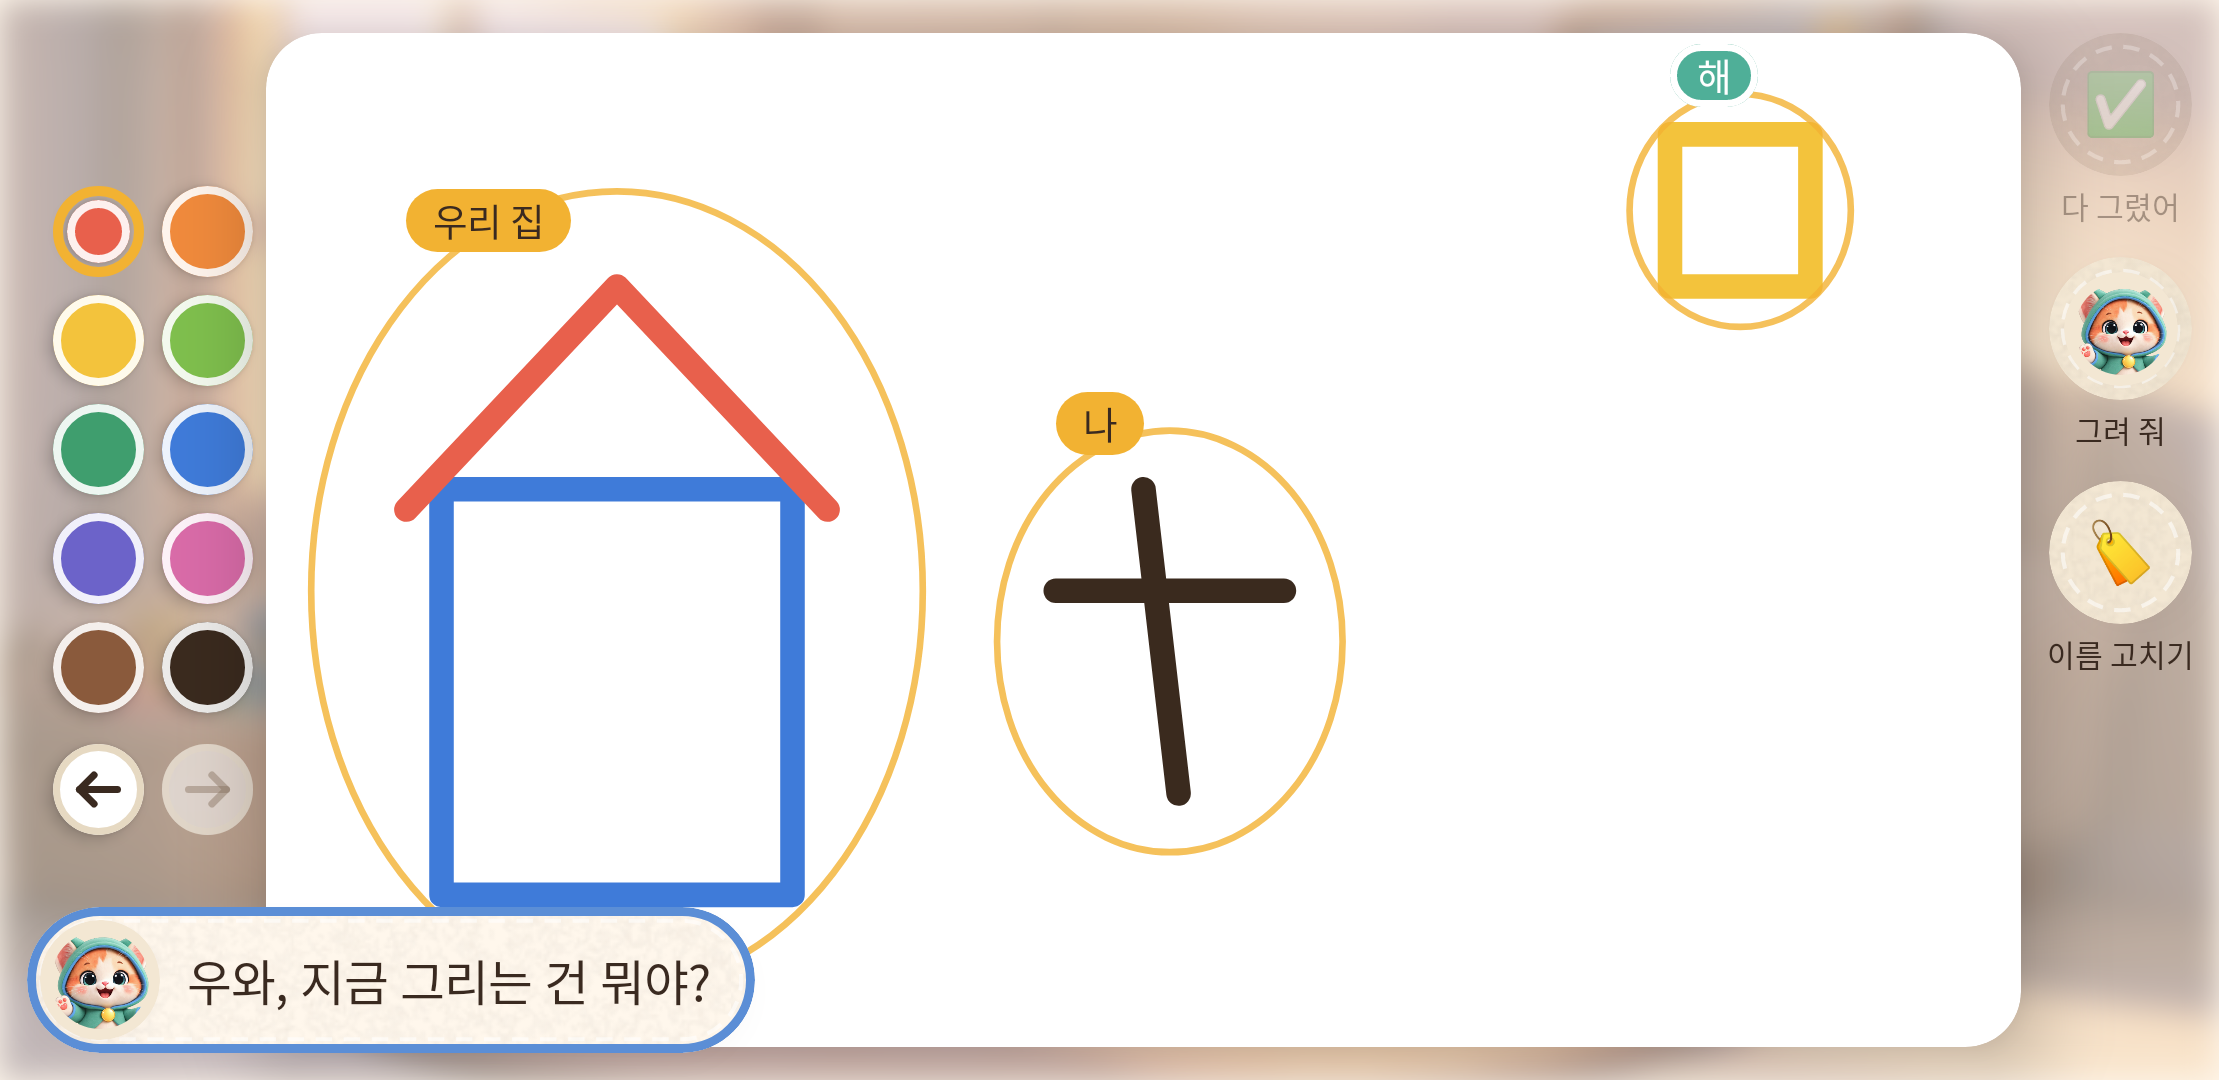
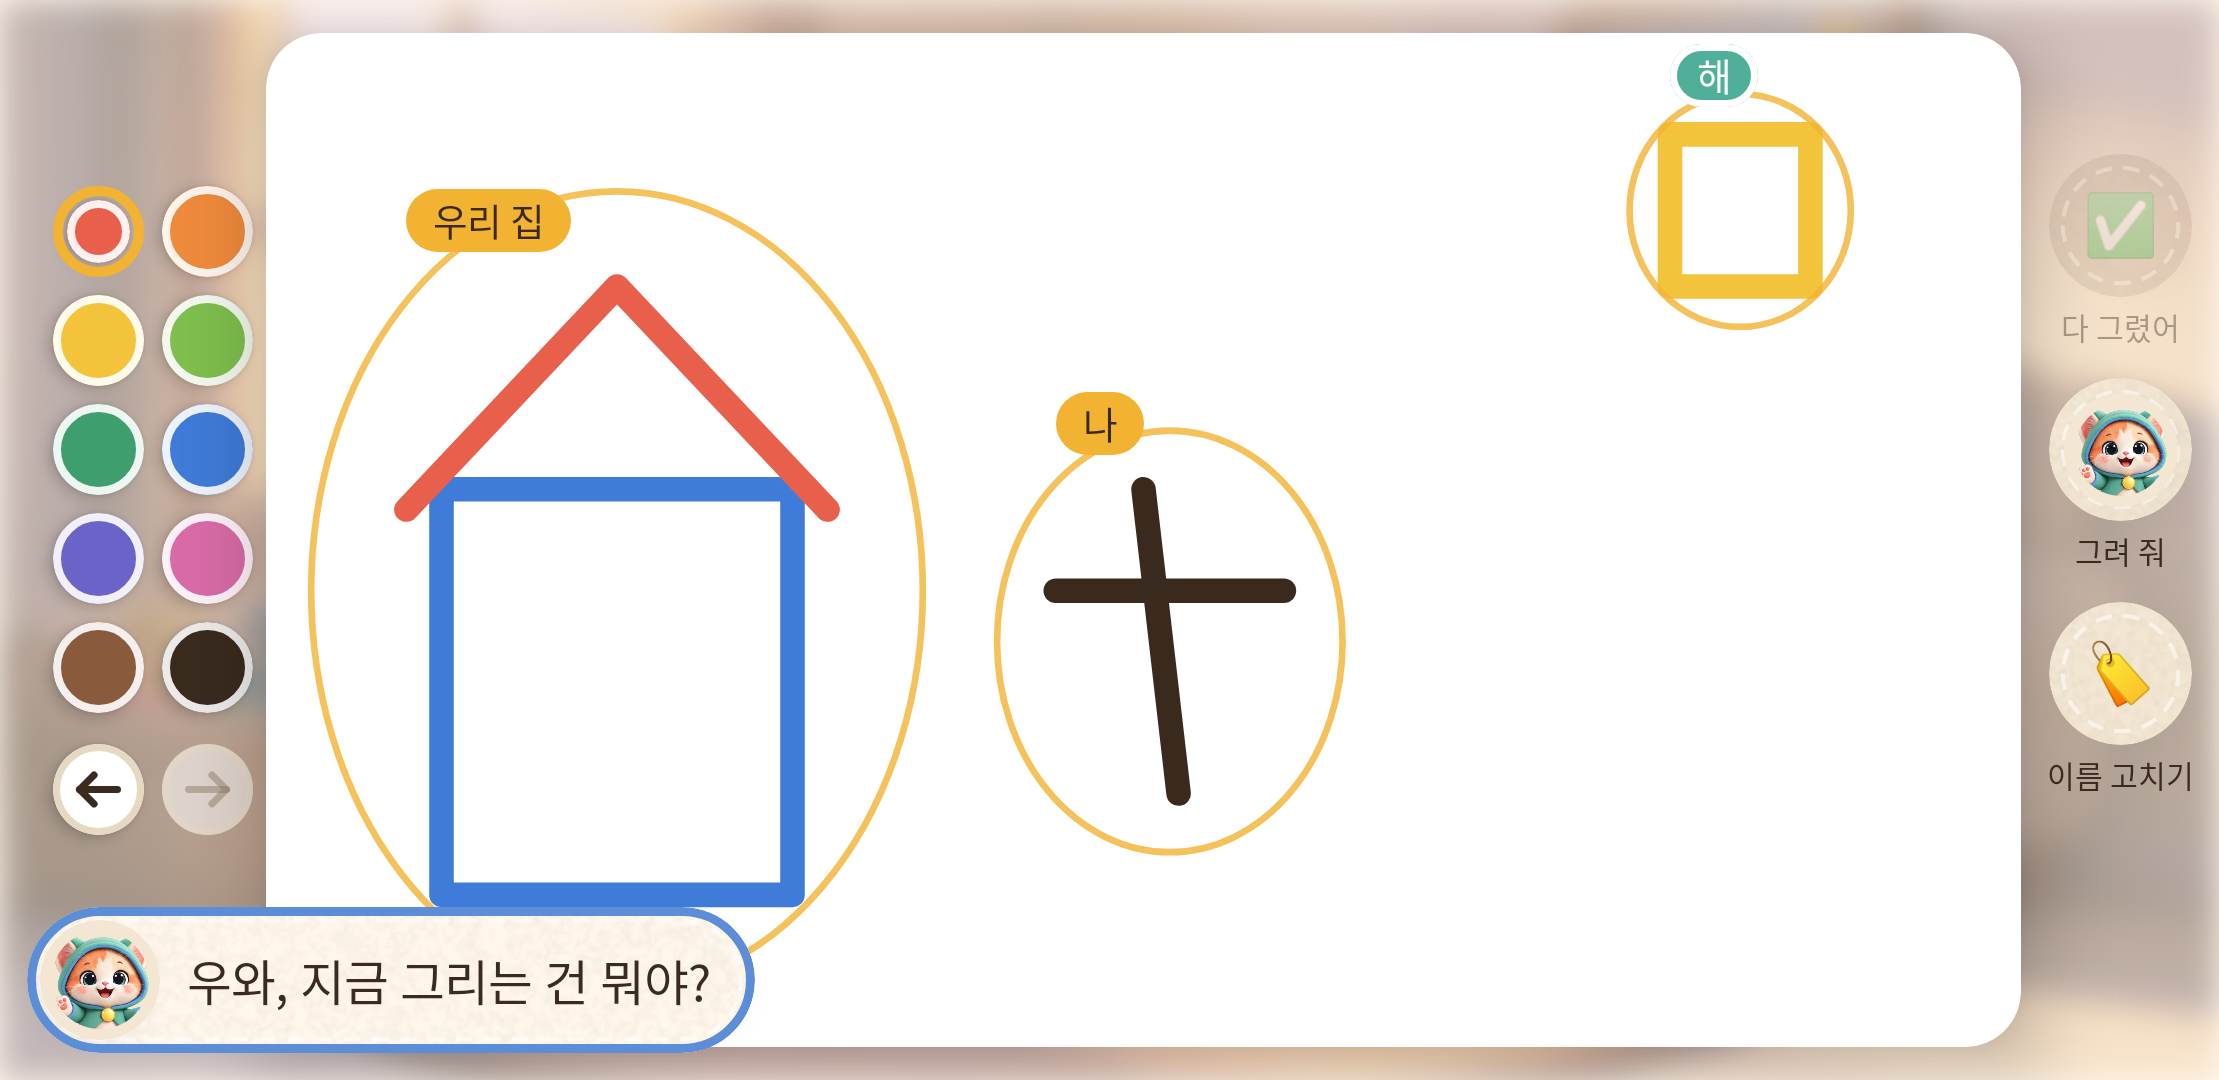
fix(diary): ✅ 다 그렸어 sits below the app's top-right demo-drawer corner (48 dp long-press box) — a tap there never reached the flow (10-05 device round)
Claude-Session: https://claude.ai/code/session_014T8D9DMqBWvFNzrUFjutEA

Changed region(s): [[0.9018, 0.0611, 0.995, 0.7333]]

diff --git a/android/app/src/main/java/com/example/finalproject_demo/ui/DiaryViews.kt b/android/app/src/main/java/com/example/finalproject_demo/ui/DiaryViews.kt
@@ -166,6 +166,9 @@ private val DiaryMicGap = 12.dp
  * 오른쪽 버튼들을 뺐던 까닭(판을 넓게)을 지키려고 띠는 좁게, 🎤 도 다른 화면(96dp)보다 작게 (10-05 진웅)
  */
 private val BoardRail = 72.dp
+
+/** 앱 틀 오른쪽 위의 시연 서랍 자리(`MainActivity` · 48dp) — 그 위의 짧은 누름은 서랍이 먹는다 */
+private val DrawerCorner = 48.dp
 private val RailButtonSize = 52.dp
 private val RailMicSize = 64.dp
 
@@ -510,7 +513,8 @@ private fun BoardTools(d: Director, stage: DiaryBoard, modifier: Modifier) {
     val free = stage.pick == null
     val tools = free && day.drawingTalk
     Column(
-        modifier.width(BoardRail).fillMaxHeight().padding(top = 12.dp, bottom = 12.dp),
+        // 위는 앱 틀의 시연 서랍 자리(오른쪽 위 48dp · 길게 누르기)를 비킨다 — 거기 걸린 [다 그렸어]는 눌러도 안 됐다 (10-05 실기기)
+        modifier.width(BoardRail).fillMaxHeight().padding(top = DrawerCorner + 8.dp, bottom = 12.dp),
         horizontalAlignment = Alignment.CenterHorizontally,
     ) {
         RailButton("다 그렸어", enabled = free && (day.watching || s.micEnabled), tag = "rail-done", onClick = { d.send(Reply.Tapped("done", "다 그렸어")) }) {

diff --git a/android/app/src/test/java/com/example/finalproject_demo/DiaryViewsTest.kt b/android/app/src/test/java/com/example/finalproject_demo/DiaryViewsTest.kt
@@ -274,6 +274,8 @@ class DiaryViewsTest {
         val root = compose.onRoot().getUnclippedBoundsInRoot()
         assertTrue("🏠 가 판 위에 얹힌다 — 판 왼쪽 ${board.left}", board.left >= 68.dp)
         assertTrue("도구 띠가 판을 가린다", mic.left >= board.right && done.left >= board.right)
+        // 오른쪽 위 48dp 는 앱 틀의 시연 서랍(길게 누르기)이 먹는다 — [다 그렸어]가 거기 있으면 눌러도 안 된다 (10-05 실기기)
+        assertTrue("[다 그렸어]가 오른쪽 위 서랍 자리에 걸렸다 — 위 ${done.top}", done.top >= 48.dp)
         assertTrue("도구 띠가 넓다 — ${root.right - board.right}", root.right - board.right <= 80.dp)
         assertTrue("🎤 가 오른쪽 아래가 아니다", root.right - mic.right < 24.dp && root.bottom - mic.bottom < 24.dp)
         assertTrue("말풍선이 화면 왼쪽 끝이 아니다 — ${bubble.left}", bubble.left < 24.dp)
